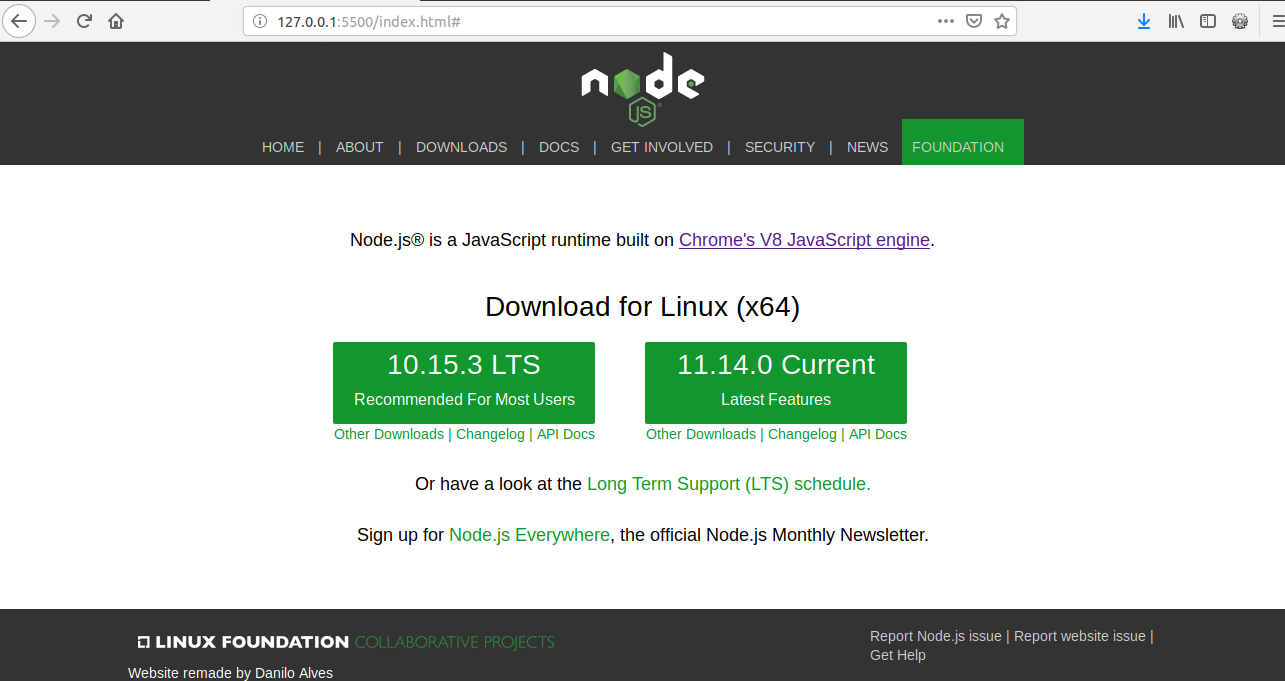
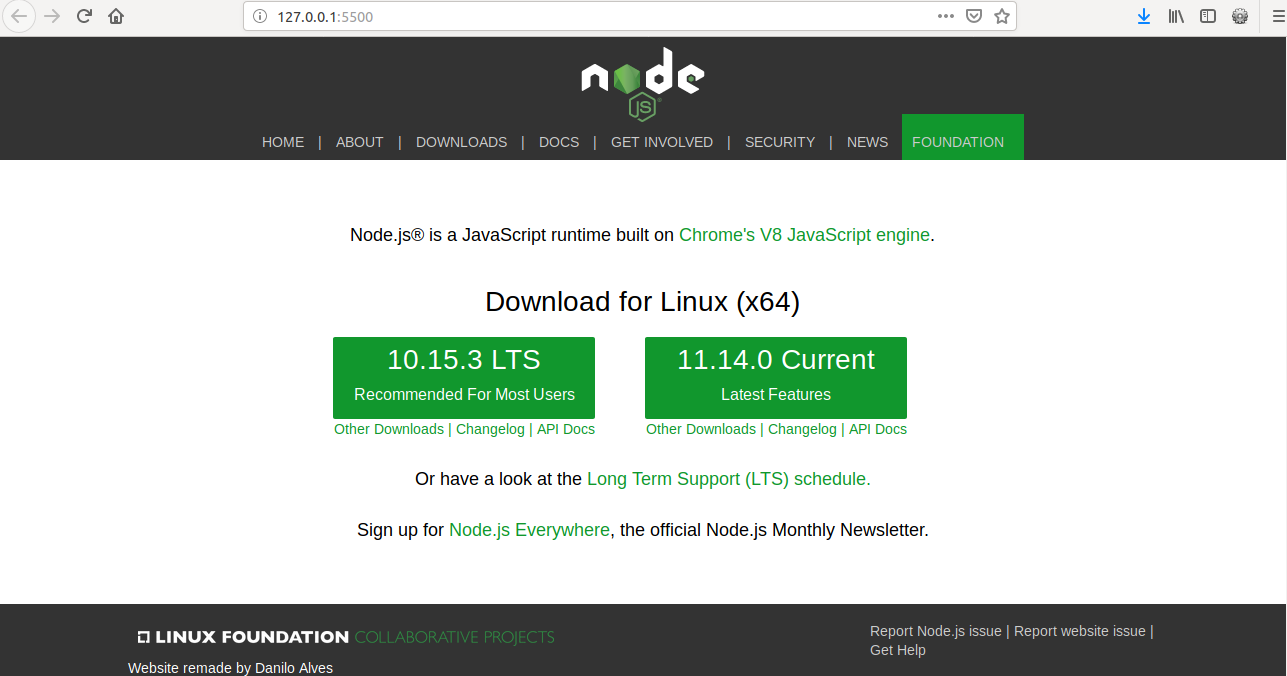
Minor change on a color of a link

diff --git a/websitesremade/nodejsorg/index.html b/websitesremade/nodejsorg/index.html
@@ -31,7 +31,7 @@
     </header>
 
     <div class="body">
-        <p>Node.js&reg; is a JavaScript runtime built on <a href="#">Chrome's V8 JavaScript engine</a>.</p>
+        <p>Node.js&reg; is a JavaScript runtime built on <a class="bp1" href="#">Chrome's V8 JavaScript engine</a>.</p>
         <h1 class="body_download">Download for Linux (x64)</h1>
         <div class="body_buttons">
             <div class="LTS">

diff --git a/websitesremade/nodejsorg/main.css b/websitesremade/nodejsorg/main.css
@@ -60,6 +60,11 @@ nav a:hover {
     font-weight: 100;
 }
 
+.bp1 {
+    text-decoration: none;
+    color: #11972d;
+}
+
 .body_download {
     margin-top: 40px;
 }
